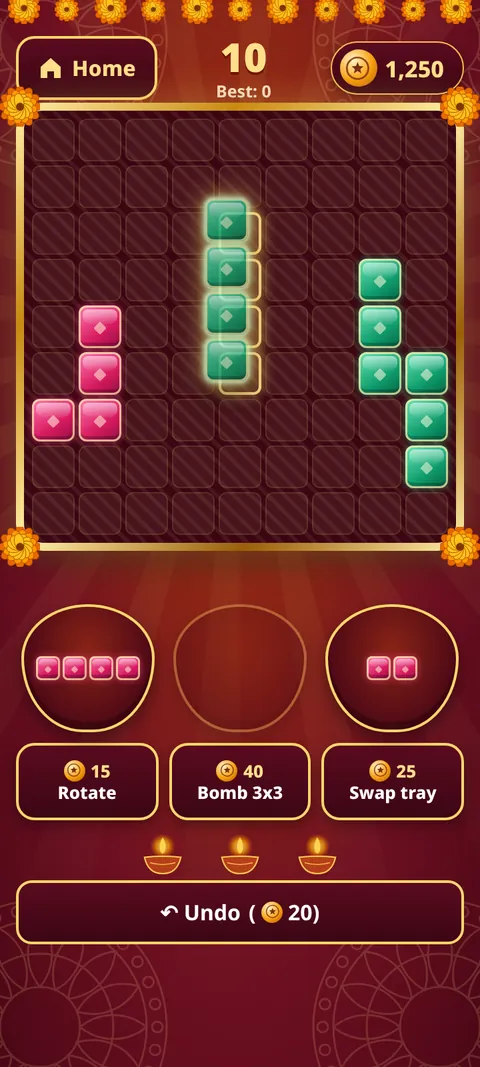
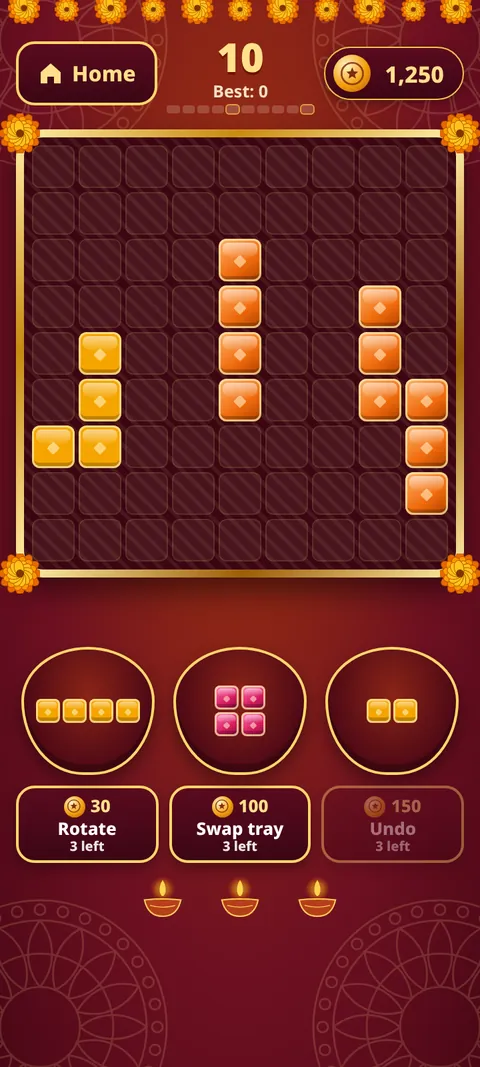
Block Puzzle privacy: optional local evening reminder (#3)
* Block Puzzle privacy: describe the optional local evening reminder

* Block Puzzle privacy: the evening reminder is off until the player turns it on (matches game PR #19 opt-in)

* Block Puzzle card matches the game: 7-day daily reward, rotate/swap tray/undo, daily and weekly goals; no streak calendar, chest, bomb, hint or achievements (EN+HI); privacy names the real power-ups

* Block Puzzle shots rebuilt from the current game (PR #19 8fac7ba, mock ads, 360x800 @2x via tools/images.py): no Chest/Gift tiles, no Bomb; Rotate, Swap tray, Undo; game alt text names the helpers

---------

diff --git a/public/index.html b/public/index.html
@@ -94,7 +94,7 @@
         <h3 class="game-name" id="g-block"><a href="/block-puzzle/">Bharat Block Puzzle</a></h3>
         <p class="hn" lang="hi">भारत ब्लॉक पहेली</p>
         <p class="pill"><span data-i18n="t4">Coming soon</span></p>
-        <p class="body"><span data-i18n="t5">A jewel board with daily challenges, levels, a streak calendar and a festive look. Rewarded ads only when you choose, and a banner only on the game screen. Coins you earn, never buy.</span></p>
+        <p class="body"><span data-i18n="t5">A jewel board with daily challenges, levels, a 7-day daily reward and a festive look. Rewarded ads only when you choose, and a banner only on the game screen. Coins you earn, never buy.</span></p>
         <a class="more" href="/block-puzzle/"><span data-i18n="t6">Read about Bharat Block Puzzle</span></a>
       </div>
     </article>
@@ -143,7 +143,7 @@
     </div>
   </footer>
 </div>
-<script type="application/json" id="i18n-hi">{"t1":"Google Play पर क्लोज़्ड टेस्टिंग","t2":"पासा फेंको और घर पहुँचो। AI के साथ खेलें, दो से चार खिलाड़ियों के साथ फ़ोन पास करें, या कंप्यूटर के साथ अभ्यास करें। पासा हमेशा निष्पक्ष है। हर खिलाड़ी को एक बार दोबारा पासा फेंकने का मौका, आपकी चुनी हुई छोटी विज्ञापन वीडियो से।","t3":"भारत लूडो के बारे में पढ़ें","t4":"जल्द आ रहा है","t5":"रोज़ की चुनौती, स्तर, स्ट्रीक कैलेंडर और त्योहार जैसा रूप, एक चमकते बोर्ड पर। इनाम वाले विज्ञापन सिर्फ़ आपकी मर्ज़ी से, और बैनर सिर्फ़ गेम स्क्रीन पर। सिक्के कमाए जाते हैं, ख़रीदे नहीं जाते।","t6":"भारत ब्लॉक पहेली के बारे में पढ़ें","t7":"जल्द आ रहा है","t8":"भारत की गलियों के नक्शे पर मिठाइयाँ मिलाओ। डेली थाली, लाइफ़ और त्योहार इवेंट। हमारे अपने रंगों में एक मैच-3।","t9":"भारत स्वीट मेला के बारे में पढ़ें","t10":"साँप सीढ़ी, पास एंड प्ले और AI के साथ।","t11":"कैरम बोर्ड, अभी बन रहा है।","t12":"ताश का खेल, अभी बन रहा है।","t13":"निशाना लगाओ, मिलाओ और फोड़ो, अभी बन रहा है।","t14":"भारत का एक गेम स्टूडियो","t15":"भारत के गेम, दिल से बने।","t16":"हम भारतीय फ़ोन के लिए आसान गेम बनाते हैं: पहले अंग्रेज़ी, हिंदी एक टैप पर, निष्पक्ष खेल, और कमाए हुए सिक्के। सिक्कों का कोई पैसा मूल्य नहीं है, और इन्हें न ख़रीदा जा सकता है न भुनाया जा सकता है।","t17":"भारत जॉय स्टूडियो के गेम, Google Play के लिए।","t18":"हमारे गेम","t19":"एक बोर्ड गेम, एक पहेली और एक मैच-3, सब एक ही स्टूडियो से।","t20":"वर्कशॉप में","t21":"ये गेम तैयार होने पर सूची में जुड़ेंगे।","t22":"सामग्री पर जाएँ","t23":"गेम","t24":"वर्कशॉप","t25":"गोपनीयता","t26":"संपर्क","t27":"एक छोटा स्टूडियो। Google Play के लिए गेम। सिक्के सिर्फ़ खेलने के लिए हैं, उनका कोई पैसा मूल्य नहीं है।","t28":"सहायता","t29":"नीतियाँ","t30":"भारत लूडो गोपनीयता","t31":"भारत ब्लॉक पहेली गोपनीयता","t32":"भारत स्वीट मेला गोपनीयता","t33":"डेटा हटाना","t34":"उपयोग की शर्तें","t35":"संपर्क"}</script>
+<script type="application/json" id="i18n-hi">{"t1":"Google Play पर क्लोज़्ड टेस्टिंग","t2":"पासा फेंको और घर पहुँचो। AI के साथ खेलें, दो से चार खिलाड़ियों के साथ फ़ोन पास करें, या कंप्यूटर के साथ अभ्यास करें। पासा हमेशा निष्पक्ष है। हर खिलाड़ी को एक बार दोबारा पासा फेंकने का मौका, आपकी चुनी हुई छोटी विज्ञापन वीडियो से।","t3":"भारत लूडो के बारे में पढ़ें","t4":"जल्द आ रहा है","t5":"रोज़ की चुनौती, स्तर, 7 दिन का इनाम और त्योहार जैसा रूप, एक चमकते बोर्ड पर। इनाम वाले विज्ञापन सिर्फ़ आपकी मर्ज़ी से, और बैनर सिर्फ़ गेम स्क्रीन पर। सिक्के कमाए जाते हैं, ख़रीदे नहीं जाते।","t6":"भारत ब्लॉक पहेली के बारे में पढ़ें","t7":"जल्द आ रहा है","t8":"भारत की गलियों के नक्शे पर मिठाइयाँ मिलाओ। डेली थाली, लाइफ़ और त्योहार इवेंट। हमारे अपने रंगों में एक मैच-3।","t9":"भारत स्वीट मेला के बारे में पढ़ें","t10":"साँप सीढ़ी, पास एंड प्ले और AI के साथ।","t11":"कैरम बोर्ड, अभी बन रहा है।","t12":"ताश का खेल, अभी बन रहा है।","t13":"निशाना लगाओ, मिलाओ और फोड़ो, अभी बन रहा है।","t14":"भारत का एक गेम स्टूडियो","t15":"भारत के गेम, दिल से बने।","t16":"हम भारतीय फ़ोन के लिए आसान गेम बनाते हैं: पहले अंग्रेज़ी, हिंदी एक टैप पर, निष्पक्ष खेल, और कमाए हुए सिक्के। सिक्कों का कोई पैसा मूल्य नहीं है, और इन्हें न ख़रीदा जा सकता है न भुनाया जा सकता है।","t17":"भारत जॉय स्टूडियो के गेम, Google Play के लिए।","t18":"हमारे गेम","t19":"एक बोर्ड गेम, एक पहेली और एक मैच-3, सब एक ही स्टूडियो से।","t20":"वर्कशॉप में","t21":"ये गेम तैयार होने पर सूची में जुड़ेंगे।","t22":"सामग्री पर जाएँ","t23":"गेम","t24":"वर्कशॉप","t25":"गोपनीयता","t26":"संपर्क","t27":"एक छोटा स्टूडियो। Google Play के लिए गेम। सिक्के सिर्फ़ खेलने के लिए हैं, उनका कोई पैसा मूल्य नहीं है।","t28":"सहायता","t29":"नीतियाँ","t30":"भारत लूडो गोपनीयता","t31":"भारत ब्लॉक पहेली गोपनीयता","t32":"भारत स्वीट मेला गोपनीयता","t33":"डेटा हटाना","t34":"उपयोग की शर्तें","t35":"संपर्क"}</script>
 <script src="/assets/js/lang.js?v=e0640998f9"></script>
 </body>
 </html>

diff --git a/public/block-puzzle/index.html b/public/block-puzzle/index.html
@@ -64,16 +64,16 @@
       <h2 id="feat-title"><span data-i18n="t12">On the board</span></h2>
       <ul class="feats">
         <li><span data-i18n="t1">Classic 9x9 and Easy 8x8 boards</span></li>
-        <li><span data-i18n="t2">100 levels, a daily challenge and a weekly festival event</span></li>
-        <li><span data-i18n="t3">Helpers: rotate, bomb, swap tray, undo and hint</span></li>
-        <li><span data-i18n="t4">Daily reward, streak calendar, daily spin, chest and achievements</span></li>
+        <li><span data-i18n="t2">100 levels, a daily challenge and a weekly event</span></li>
+        <li><span data-i18n="t3">Helpers: rotate, swap tray and undo</span></li>
+        <li><span data-i18n="t4">A 7-day daily reward, a daily spin, and daily and weekly goals</span></li>
         <li><span data-i18n="t5">Board skins and themes, a share card, and your own name and icon</span></li>
         <li><span data-i18n="t6">Rewarded ads only when you choose, and a banner on the game screen. No full-screen ads.</span></li>
         <li><span data-i18n="t7">English and Hindi</span></li>
       </ul>
     </div>
     <figure class="feat-shot">
-      <div class="phone "><div class="bezel"><div class="screen"><img src="/assets/img/shots/block-game.webp" width="480" height="1067" alt="A Bharat Block Puzzle board during play" loading="lazy" decoding="async"></div></div></div>
+      <div class="phone "><div class="bezel"><div class="screen"><img src="/assets/img/shots/block-game.webp" width="480" height="1067" alt="A Bharat Block Puzzle board during play, with the Rotate, Swap tray and Undo helpers" loading="lazy" decoding="async"></div></div></div>
       <figcaption class="sr-only"><span data-i18n="t13">Screens from the game</span></figcaption>
     </figure>
   </section>
@@ -106,7 +106,7 @@
     </div>
   </footer>
 </div>
-<script type="application/json" id="i18n-hi">{"t1":"क्लासिक 9x9 और आसान 8x8 बोर्ड","t2":"100 स्तर, रोज़ की चुनौती और हर हफ़्ते त्योहार इवेंट","t3":"मदद: घुमाओ, बम, ट्रे बदलो, वापस लो और संकेत","t4":"रोज़ का इनाम, स्ट्रीक कैलेंडर, डेली स्पिन, संदूक और उपलब्धियाँ","t5":"बोर्ड स्किन और थीम, शेयर कार्ड, और आपका अपना नाम और आइकन","t6":"इनाम वाले विज्ञापन सिर्फ़ आपकी मर्ज़ी से, और बैनर गेम स्क्रीन पर। कोई फ़ुल-स्क्रीन विज्ञापन नहीं।","t7":"अंग्रेज़ी और हिंदी","t8":"भारत जॉय का एक गेम","t9":"जल्द आ रहा है","t10":"ब्लॉक जमाओ, बोर्ड साफ़ करो।","t11":"अंग्रेज़ी और हिंदी में शांत ब्लॉक पहेली। क्लासिक और आसान बोर्ड, सौ स्तर, और हर दिन एक नई चुनौती।","t12":"बोर्ड पर","t13":"गेम की झलक","t14":"सिक्के सिर्फ़ खेलकर कमाए जाते हैं और उनका कोई पैसा मूल्य नहीं है। इन्हें न ख़रीदा जा सकता है न भुनाया जा सकता है। पैकेज नाम: com.bharatjoy.blockpuzzle.","t15":"जल्द Google Play पर","t16":"गोपनीयता नीति","t17":"सामग्री पर जाएँ","t18":"गेम","t19":"वर्कशॉप","t20":"गोपनीयता","t21":"संपर्क","t22":"एक छोटा स्टूडियो। Google Play के लिए गेम। सिक्के सिर्फ़ खेलने के लिए हैं, उनका कोई पैसा मूल्य नहीं है।","t23":"सहायता","t24":"नीतियाँ","t25":"भारत लूडो गोपनीयता","t26":"भारत ब्लॉक पहेली गोपनीयता","t27":"भारत स्वीट मेला गोपनीयता","t28":"डेटा हटाना","t29":"उपयोग की शर्तें","t30":"संपर्क"}</script>
+<script type="application/json" id="i18n-hi">{"t1":"क्लासिक 9x9 और आसान 8x8 बोर्ड","t2":"100 स्तर, रोज़ की चुनौती और साप्ताहिक इवेंट","t3":"मदद: घुमाओ, ट्रे बदलो और वापस लो","t4":"7 दिन का इनाम, डेली स्पिन, और रोज़ और हफ़्ते के लक्ष्य","t5":"बोर्ड स्किन और थीम, शेयर कार्ड, और आपका अपना नाम और आइकन","t6":"इनाम वाले विज्ञापन सिर्फ़ आपकी मर्ज़ी से, और बैनर गेम स्क्रीन पर। कोई फ़ुल-स्क्रीन विज्ञापन नहीं।","t7":"अंग्रेज़ी और हिंदी","t8":"भारत जॉय का एक गेम","t9":"जल्द आ रहा है","t10":"ब्लॉक जमाओ, बोर्ड साफ़ करो।","t11":"अंग्रेज़ी और हिंदी में शांत ब्लॉक पहेली। क्लासिक और आसान बोर्ड, सौ स्तर, और हर दिन एक नई चुनौती।","t12":"बोर्ड पर","t13":"गेम की झलक","t14":"सिक्के सिर्फ़ खेलकर कमाए जाते हैं और उनका कोई पैसा मूल्य नहीं है। इन्हें न ख़रीदा जा सकता है न भुनाया जा सकता है। पैकेज नाम: com.bharatjoy.blockpuzzle.","t15":"जल्द Google Play पर","t16":"गोपनीयता नीति","t17":"सामग्री पर जाएँ","t18":"गेम","t19":"वर्कशॉप","t20":"गोपनीयता","t21":"संपर्क","t22":"एक छोटा स्टूडियो। Google Play के लिए गेम। सिक्के सिर्फ़ खेलने के लिए हैं, उनका कोई पैसा मूल्य नहीं है।","t23":"सहायता","t24":"नीतियाँ","t25":"भारत लूडो गोपनीयता","t26":"भारत ब्लॉक पहेली गोपनीयता","t27":"भारत स्वीट मेला गोपनीयता","t28":"डेटा हटाना","t29":"उपयोग की शर्तें","t30":"संपर्क"}</script>
 <script src="/assets/js/lang.js?v=e0640998f9"></script>
 </body>
 </html>

diff --git a/public/block-puzzle/privacy.html b/public/block-puzzle/privacy.html
@@ -58,18 +58,19 @@
     <ul>
       <li>The name and icon you choose</li>
       <li>Optional gender, if you choose to give it. It is never sent to ads, and you can clear it in Settings.</li>
-      <li>Coins, levels, stars, streaks and achievements</li>
-      <li>Sound, vibration, notification and language settings</li>
+      <li>Coins, levels, stars, streaks, goals and records</li>
+      <li>Sound, vibration, reminder and language settings</li>
     </ul>
     <p>Uninstalling the app deletes this data. There is no Bharat Joy account and no game server, so there is nothing of yours to delete on our side. See the <a href="/delete">data deletion page</a>.</p>
 
     <h2>Ads (Google AdMob)</h2>
-    <p>Bharat Block Puzzle shows Google AdMob ads in two formats only. A rewarded video is always your choice, for example to continue a game, double coins, get one extra spin a day, or use a hint or another helper (power-up). A banner is shown on the game screen only. There are no full-screen ads between games.</p>
+    <p>Bharat Block Puzzle shows Google AdMob ads in two formats only. A rewarded video is always your choice, for example to continue a game, double coins, get one extra spin a day, or use a helper (power-up): rotate, swap tray or undo. A banner is shown on the game screen only. There are no full-screen ads between games.</p>
     <p>AdMob may collect and use the advertising ID, device and app information, approximate location from the IP address, ad interactions, and its own diagnostics, to serve, measure and limit ads, and to prevent fraud. See <a href="https://policies.google.com/technologies/ads">how Google uses information from apps that use its services</a>. You can reset or delete the advertising ID in your phone's Google settings.</p>
     <p>AdMob is the only third party that receives data from this app. Bharat Block Puzzle does not include Firebase or any other analytics service.</p>
 
-    <h2>Notifications</h2>
-    <p>After your first win the app may ask once for permission to show notifications. This version does not schedule or send any reminders. If a later version adds reminders, they will be local to the phone, off until you allow them, and this policy will be updated first. You can turn notifications off in Settings or in your phone's settings.</p>
+    <h2>Reminders</h2>
+    <p>The evening reminder is optional and off until you turn it on. You can turn it on in Settings, or by allowing notifications when the app asks once after your first level win. A phone that allows notifications without asking does not turn it on. While it is on and notifications are allowed, the app schedules at most one local reminder a day, around 7 pm phone time, and none on a day you have already played.</p>
+    <p>The reminder is made and shown on this phone using Android's notification system. No data is sent for it and no push server is used. You can turn it off at any time in Settings, which cancels the pending reminder, or in your phone's settings.</p>
 
     <h2>Daily rewards and the clock</h2>
     <p>Daily rewards use the phone's own clock, with checks on the phone that stop a reward being claimed twice when the clock is moved. The app does not contact a time service.</p>
